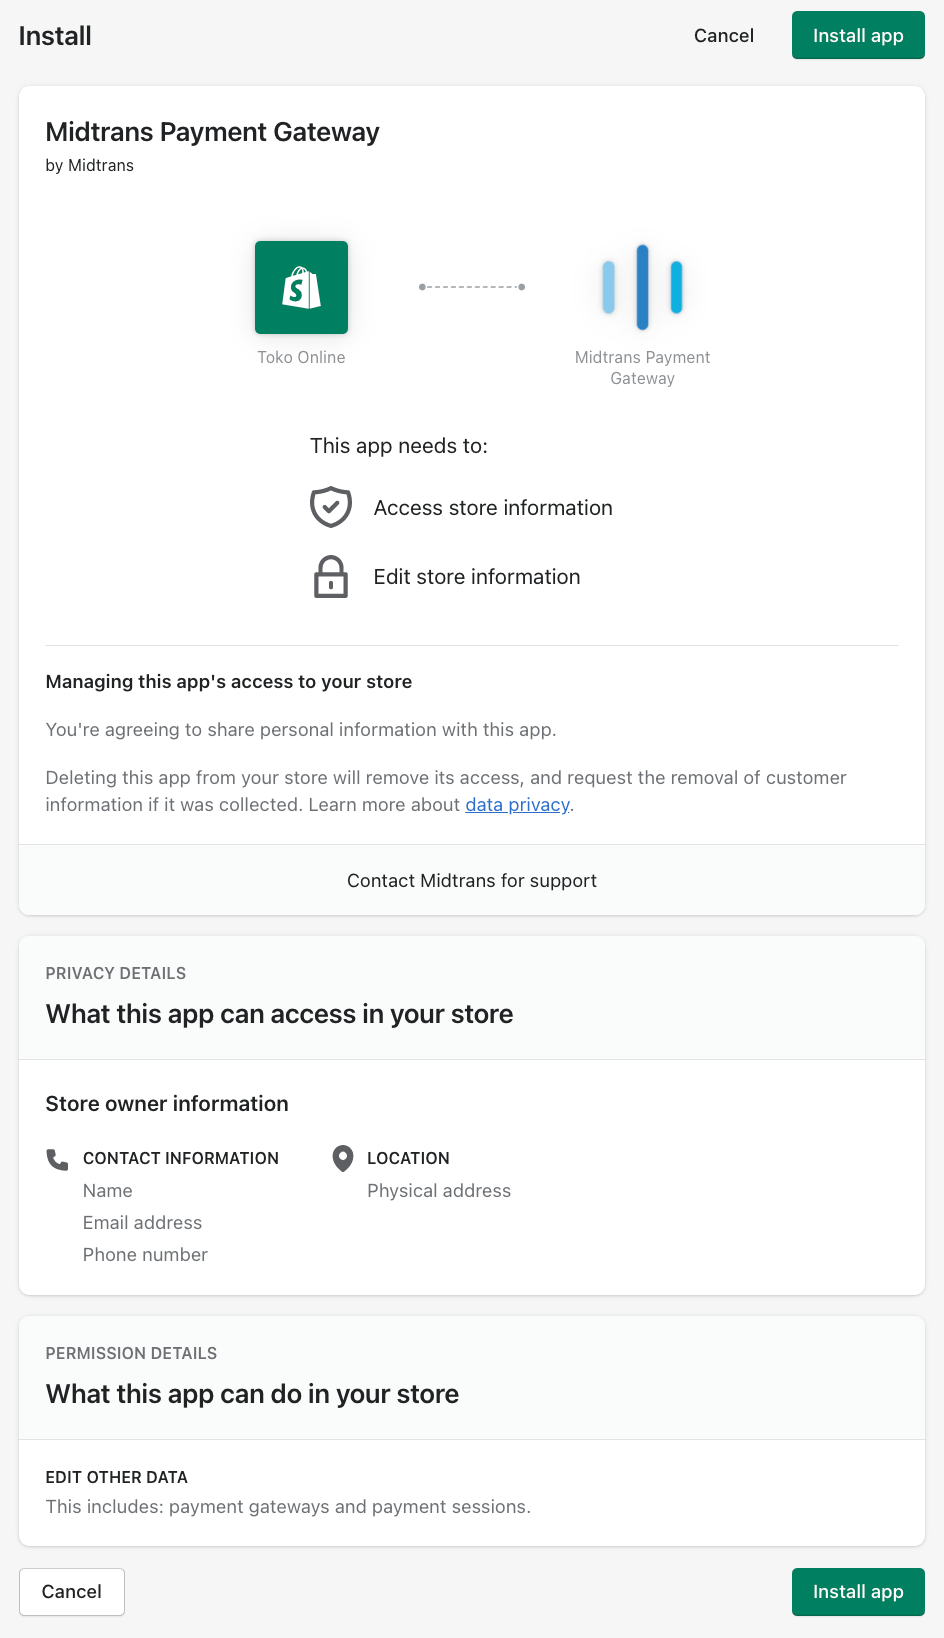
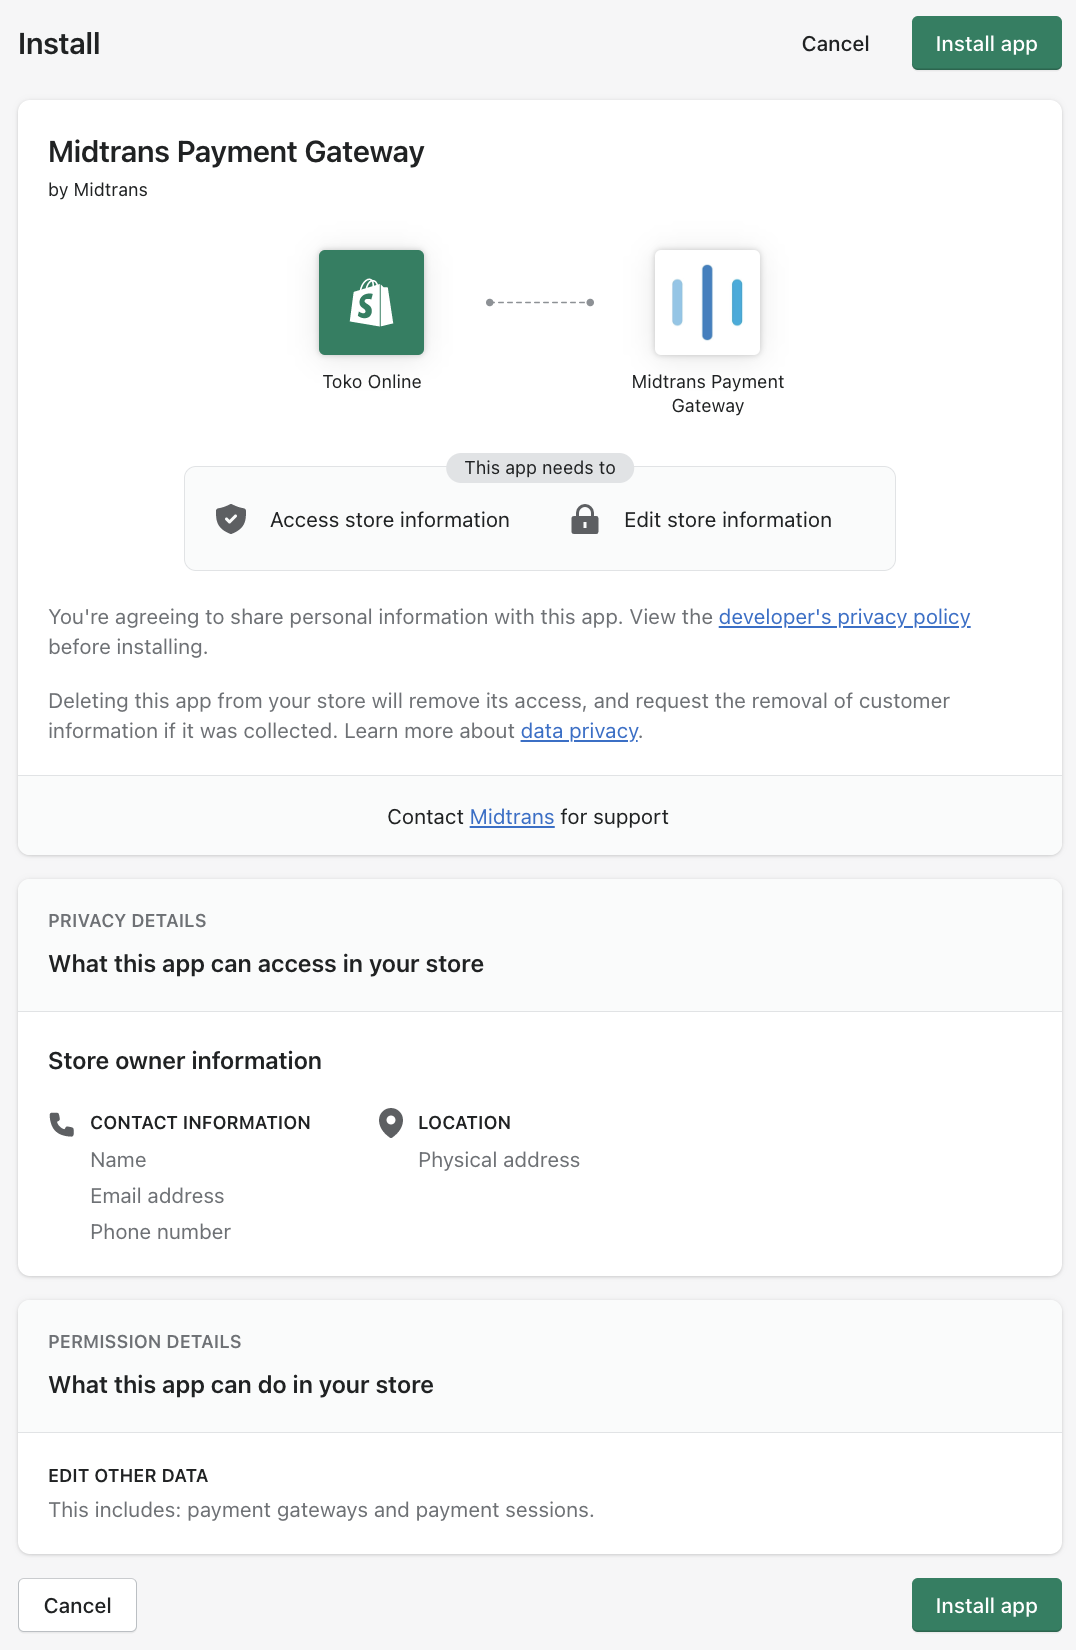
update content for new merchant

diff --git a/en/snap/platform/shopify-payment-app-preview.md b/en/snap/platform/shopify-payment-app-preview.md
@@ -34,6 +34,47 @@ To integrate Midtrans to Shopify platform, follow the steps given below.
 
 #### If You are A New Merchant or Existing Merchant that want to Integrate with Shopify for the first time
 
+1. Login to Midtrans [Merchant Administration Portal](https://dashboard.midtrans.com/login).
+
+	You will find your online shop name with *Sandbox/Production environment*. Please make sure that you are in __Production environment__.
+
+	![Login MAP](./../../../asset/image/snap-prep-env-diff.jpg ':size=400')<br>
+
+2. Select __Settings -> Access Keys__.
+
+	Copy Midtrans __Merchant ID__ and __Server Key__ (Will be used for the next step).
+
+	you also need Midtrans Merchant ID and Server Key from sandbox environment, please change the environment mode to sandbox, and access the same menu to get Midtrans Merchant ID and Server Key
+
+	![access key](./../../../asset/image/sirclo-2.png)<br>
+
+3. Login to your [Shopify Store](https://www.shopify.com/login).
+
+4. Install Midtrans App from Shopify App Store [here](https://apps.shopify.com/midtrans-payment-gateway-new)
+
+	![shopify app store](./../../../asset/image/shopify-new-20-midtrans-shopify-appstore.png)<br>
+
+5. Click __Add app__ button
+
+6. You will be redirect to installation page, you can review the displayed information, then click __Install app__
+	![Install Midtrans](./../../../asset/image/shopify-new-06-install.png ':size=400')<br>
+
+7. You will be redirect to the Onboarding page, please fill by your Midtrans __Merchant ID__ and __Server Key__ for production and sandbox. Then click __Register__.
+	![Register](./../../../asset/image/shopify-new-07-register.png ':size=400')<br>
+
+8. You will be redirect back to Shopify, and the page will indicates that your Shopify store is connected to Midtrans Payment Gateway.
+	![Connected to Midtrans](./../../../asset/image/shopify-new-08-success-install.png ':size=400')<br>
+
+9. To activate, click __Activate Midtrans Payment__. You can also tick/untick desired payment method icons that will be shown in the payment button on your checkout page.
+
+10. Done! Now your Shopify online shop is ready to start accepting payments with Midtrans as payment gateway. Your customer will see __Midtrans Payment__ as payment method on the checkout page.
+	![Midtrans show in checkout page](./../../../asset/image/shopify-new-10-order.png ':size=400')<br>
+
+Midtrans Snap payment page will be displayed to the customer. Payment methods that are available on Snap product, are explained on [this page](https://midtrans.com/payments). These methods are available for integration. 
+
+![shopify](./../../../asset/image/shopify-new-19-snap-page.png ':size=400')<br>
+
+With this integration, your customer will be redirected to Snap Redirect payment page. Customer payment data is safely managed by Midtrans hosted payment web page, outside of your Shopify store web domain.
 
 #### If You are Existing Merchant and previously using Old Midtrans Payment App
 
@@ -46,66 +87,6 @@ To integrate Midtrans to Shopify platform, follow the steps given below.
 
 #### How to Uninstall Old Midtrans Payment App
 
-1. Login to Midtrans [Merchant Administration Portal](https://dashboard.midtrans.com/login).
-
-	You will find your online shop name with *Sandbox/Production environment*. Please make sure that you are in __Production environment__.
-
-	![Login MAP](./../../../asset/image/snap-prep-env-diff.jpg ':size=400')
-
-2. Select __Settings -> Configuration__.
-
-	![Setting](./../../../asset/image/dashboard-configuration.png)
-
-On **Production** mode:
-
-| URL Role | Redirect URL|
-|----------|-------------|
-| Payment Notification URL | `https://pixel.midtrans.com/payments/notification` |
-| Finish Redirect URL | [your-site-url] |
-| Error Redirect URL | [your-site-url] |
-| Unfinish Redirect URL | [your-site-url] |
-
-3. Select __Settings -> Access Keys__.
-
-	Copy Midtrans __Merchant ID__ and __Server Key__ (Will be used for the next step).
-
-	![access key](./../../../asset/image/sirclo-2.png)<br>
-
-4. Login to your [Shopify Store](https://www.shopify.com/login).
-
-5. On your Shopify Store admin page, go to __Settings -> Payments__.
-
-	![Settings menu](./../../../asset/image/shopify-new-01-settings.png ':size=400')
-	![Payment providers menu](./../../../asset/image/shopify-new-02-payments.png ':size=400')
-
-6. Under __Supported payment methods__, click __Add payment methods__.
-	![Third-party providers](./../../../asset/image/shopify-new-03-supported-payment-methods.png ':size=400')
-
-7. Input __Midtrans Payment Gateway__ in the search bar, __Midtrans Payment Gateway__ will be shown, then click activate button.
-	![Search Midtrans](./../../../asset/image/shopify-new-04-search-midtrans.png ':size=400')
-
-8. In the displayed Midtrans Payment Gateway page, click __Connect__.
-	![Midtrans Page](./../../../asset/image/shopify-new-05-connect.png ':size=400')
-
-9. You can review the displayed information, then click __Install app__ to install.
-	![Install Midtrans](./../../../asset/image/shopify-new-06-install.png ':size=400')
-
-10. You will be redirect to the Onboarding page, please fill by your Midtrans __Merchant ID__ and __Server Key__. Then click __Register__.
-	![Register](./../../../asset/image/shopify-new-07-register.png ':size=400')
-
-11. You will be redirect back to Shopify, and the page will indicates that your Shopify store is connected to Midtrans Payment Gateway.
-	![Connected to Midtrans](./../../../asset/image/shopify-new-08-success-install.png ':size=400')
-
-12. To activate, click __Activate Midtrans Payment Gateway__. You can also tick/untick desired payment method icons that will be shown in the payment button on your checkout page.
-
-13. Done! Now your Shopify online shop is ready to start accepting payments with Midtrans as payment gateway. Your customer will see __Midtrans Payment Gateway__ as payment method on the checkout page.
-	![Midtrans show in checkout page](./../../../asset/image/shopify-new-10-order.png ':size=400')
-
-Midtrans Snap payment page will be displayed to the customer. Payment methods that are available on Snap product, are explained on [this page](https://midtrans.com/payments). These methods are available for integration. 
-
-![shopify](./../../../asset/image/shopify-new-19-snap-page.png ':size=400')
-
-With this integration, your customer will be redirected to Snap Redirect payment page. Customer payment data is safely managed by Midtrans hosted payment web page, outside of your Shopify store web domain.
 
 <hr>
 
